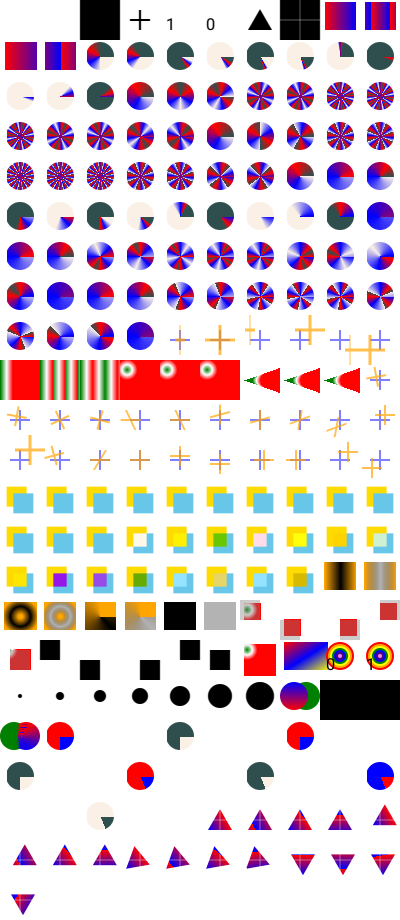
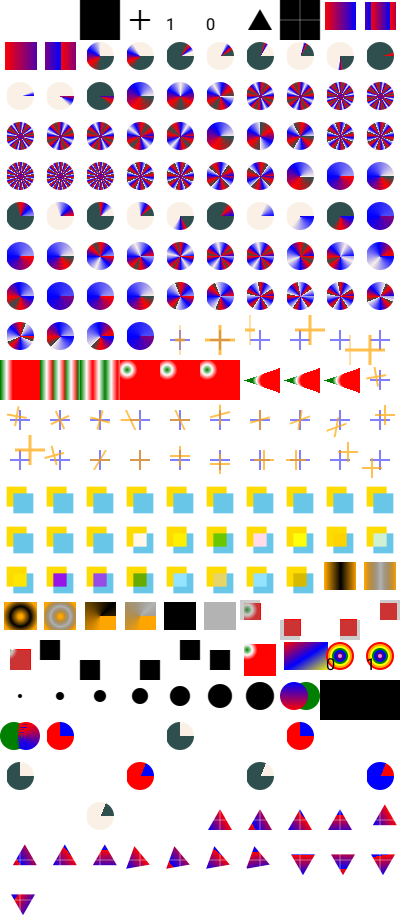
Fix the direction of sweep gradients in COLR (#223)

diff --git a/crates/krilla/src/text/glyph/colr.rs b/crates/krilla/src/text/glyph/colr.rs
@@ -390,14 +390,19 @@ impl ColorPainter for ColrBuilder {
                     }
                 };
 
-                let Some(transform) = self.transforms.last().copied() else {
+                let Some(mut transform) = self.transforms.last().copied() else {
                     self.error = true;
                     return;
                 };
 
+                // krilla sweep gradients go in a different direction than COLR, so we need
+                // to invert y-axis.
+
+                transform = transform.pre_concat(Transform::from_scale(1.0, -1.0));
+
                 let sweep = SweepGradient {
                     cx: c0.x,
-                    cy: c0.y,
+                    cy: -c0.y,
                     start_angle,
                     end_angle,
                     stops,